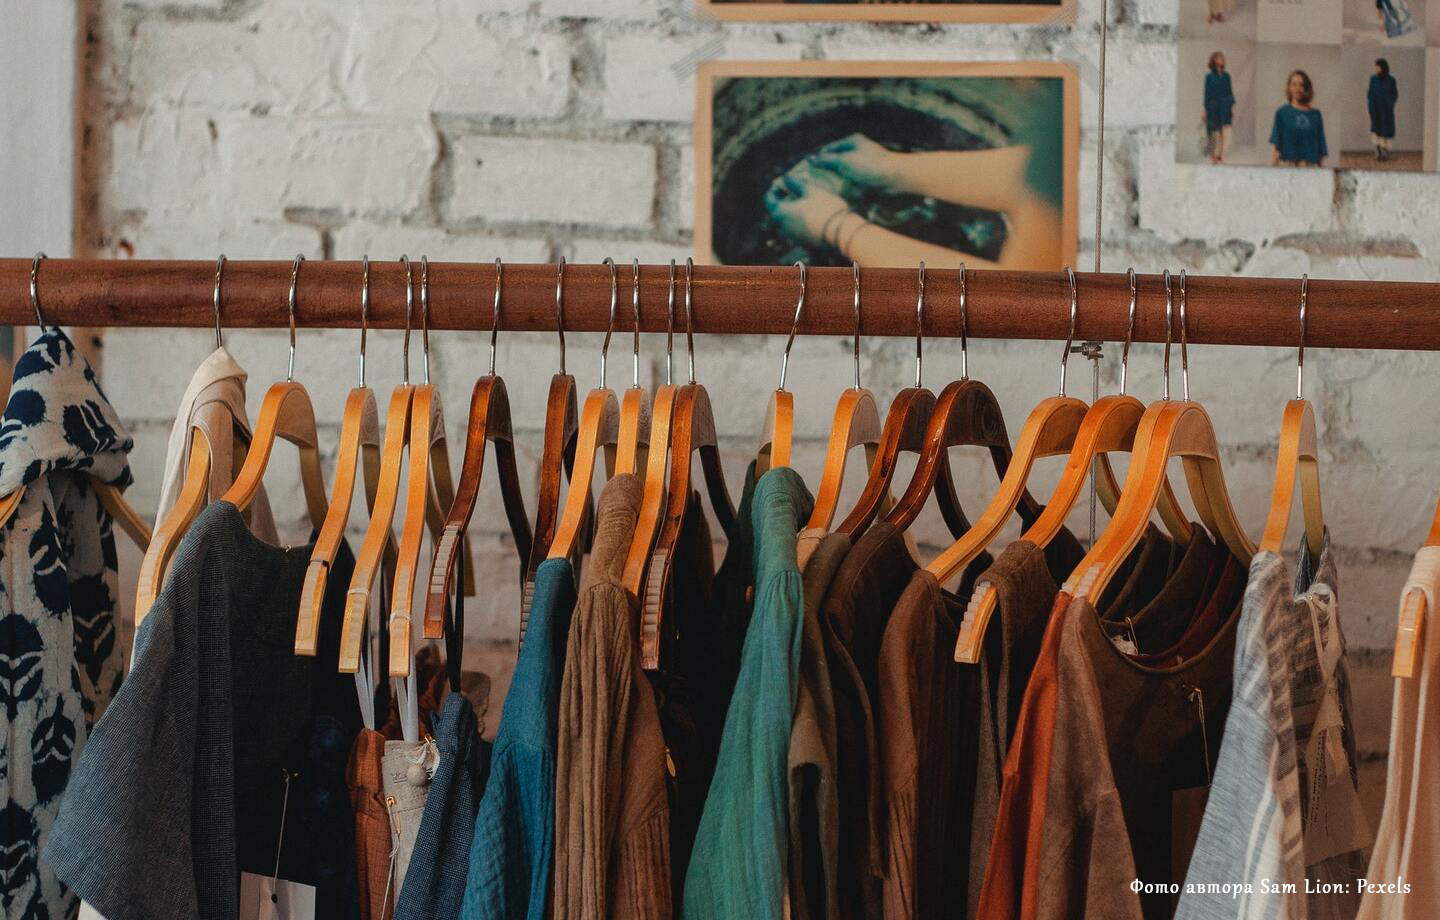
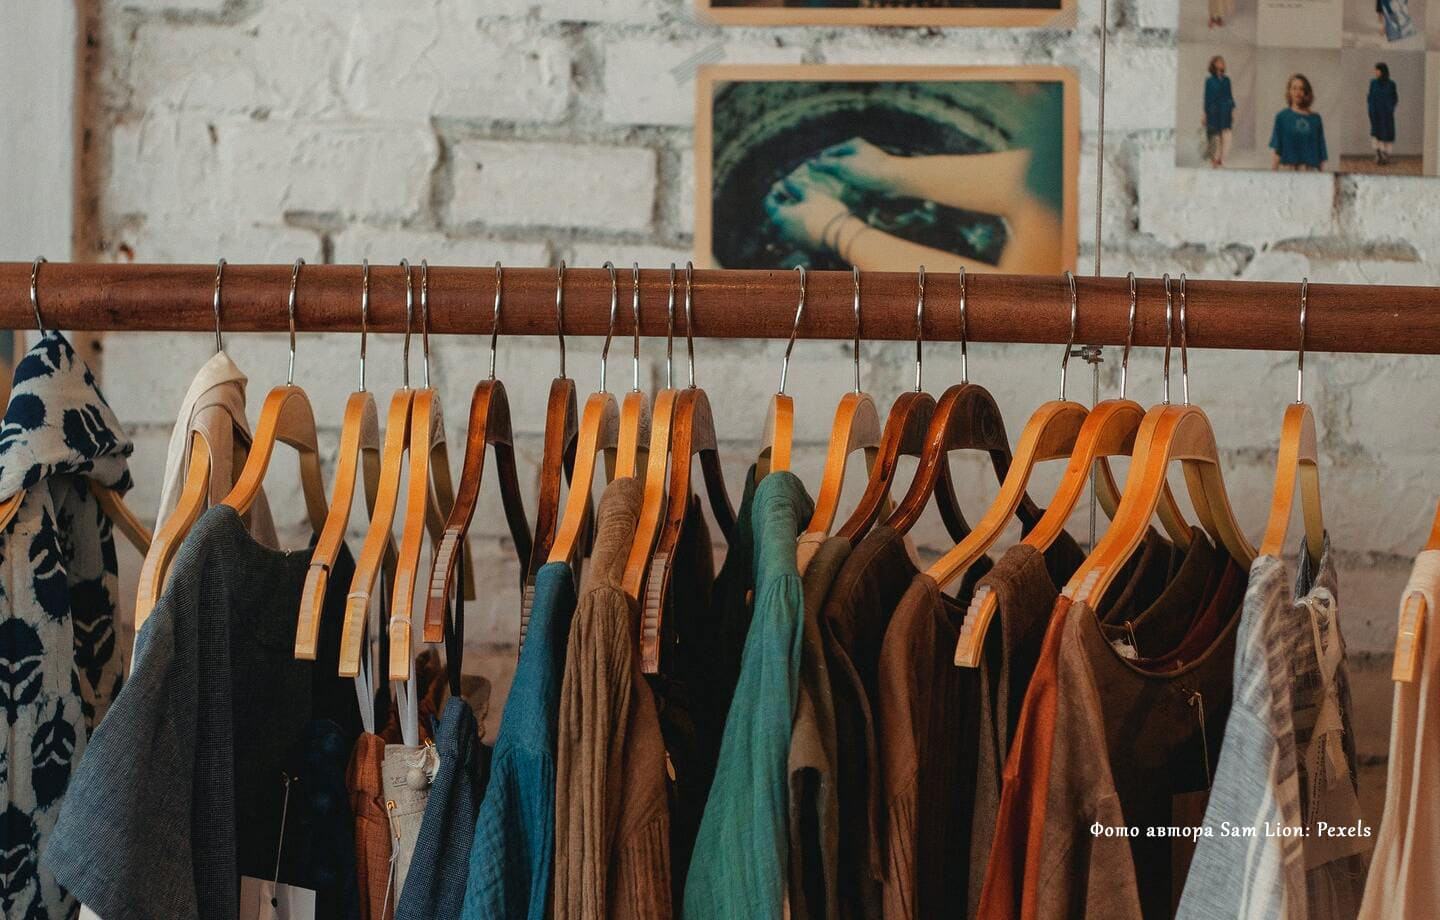
updated signature more correctly

diff --git a/style.css b/style.css
@@ -205,26 +205,6 @@ h1, h2, h3, h4, h5, h6 {
 	100%{transform: translate3d(-50%, -96%, 0) rotate(360deg) scale(1);}
 }
 
-/*===signature===*/
-.signature {
-	position: absolute;
-	top: 800px;
-	left: 1150px;
-}
-
-.signature h2 {
-	font-family: 'Gabriela', serif;
-	font-size: 24px;
-	line-height: 1.1;
-	font-weight: 400;
-	color: #C9C2C2;
-	transition: color .3s ease;
-}
-
-.signature h2:hover {
-	color: #fff;
-	cursor: default;
-}
 
 /*===section===*/
 .blocks {

diff --git a/index.html b/index.html
@@ -84,6 +84,7 @@
 			<div class="footer_titles">
 				<p>Lubyansk-store 2021</p>
 				<p>Шайхлисламов Салават</p>
+				<p>Фото автора Sam Lion: Pexels</p>
 			</div>	
 		</div>
 	</footer>
